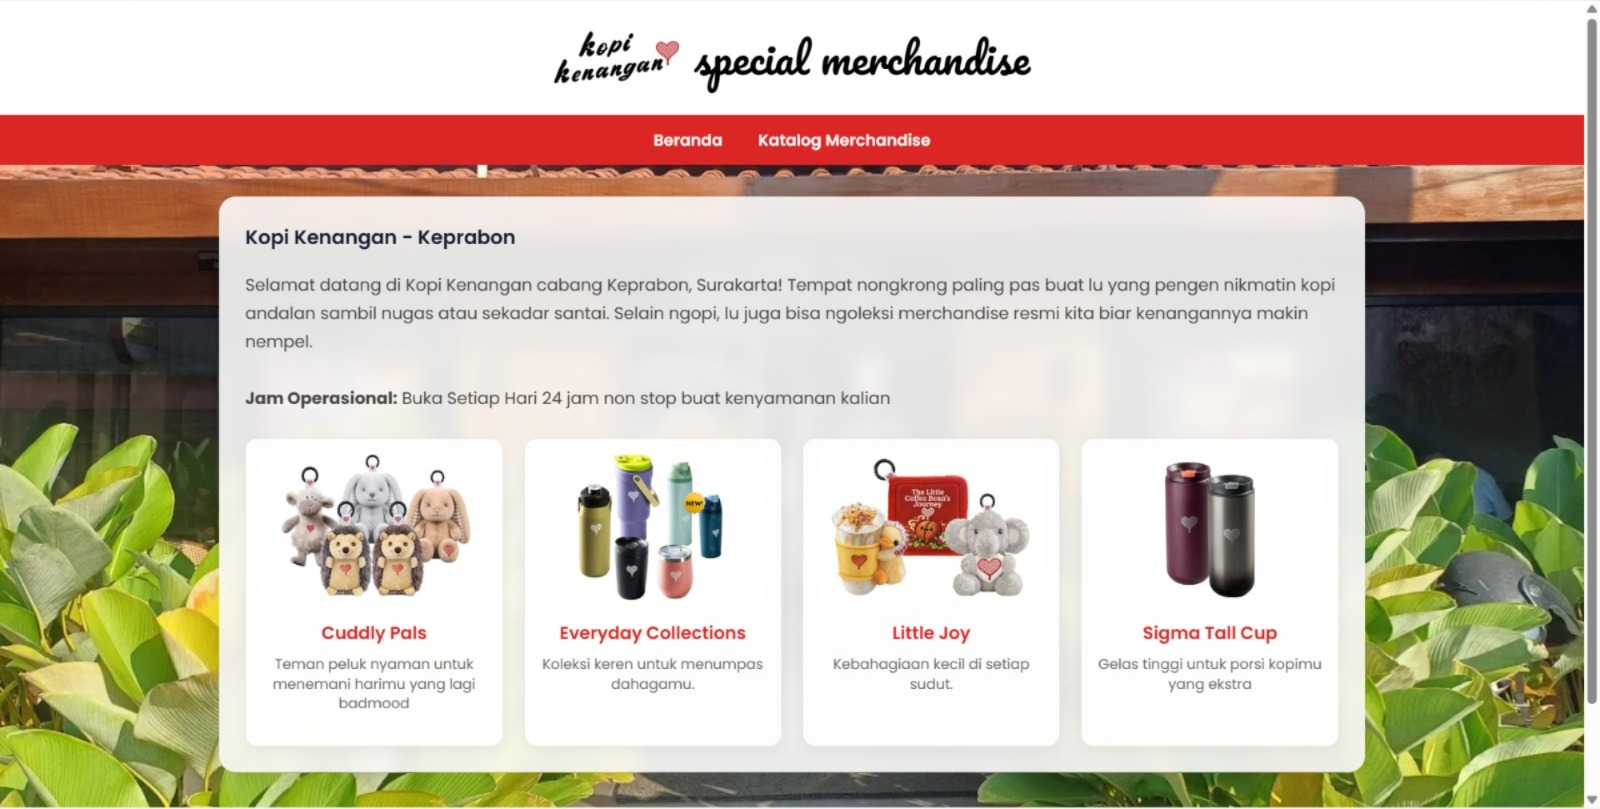
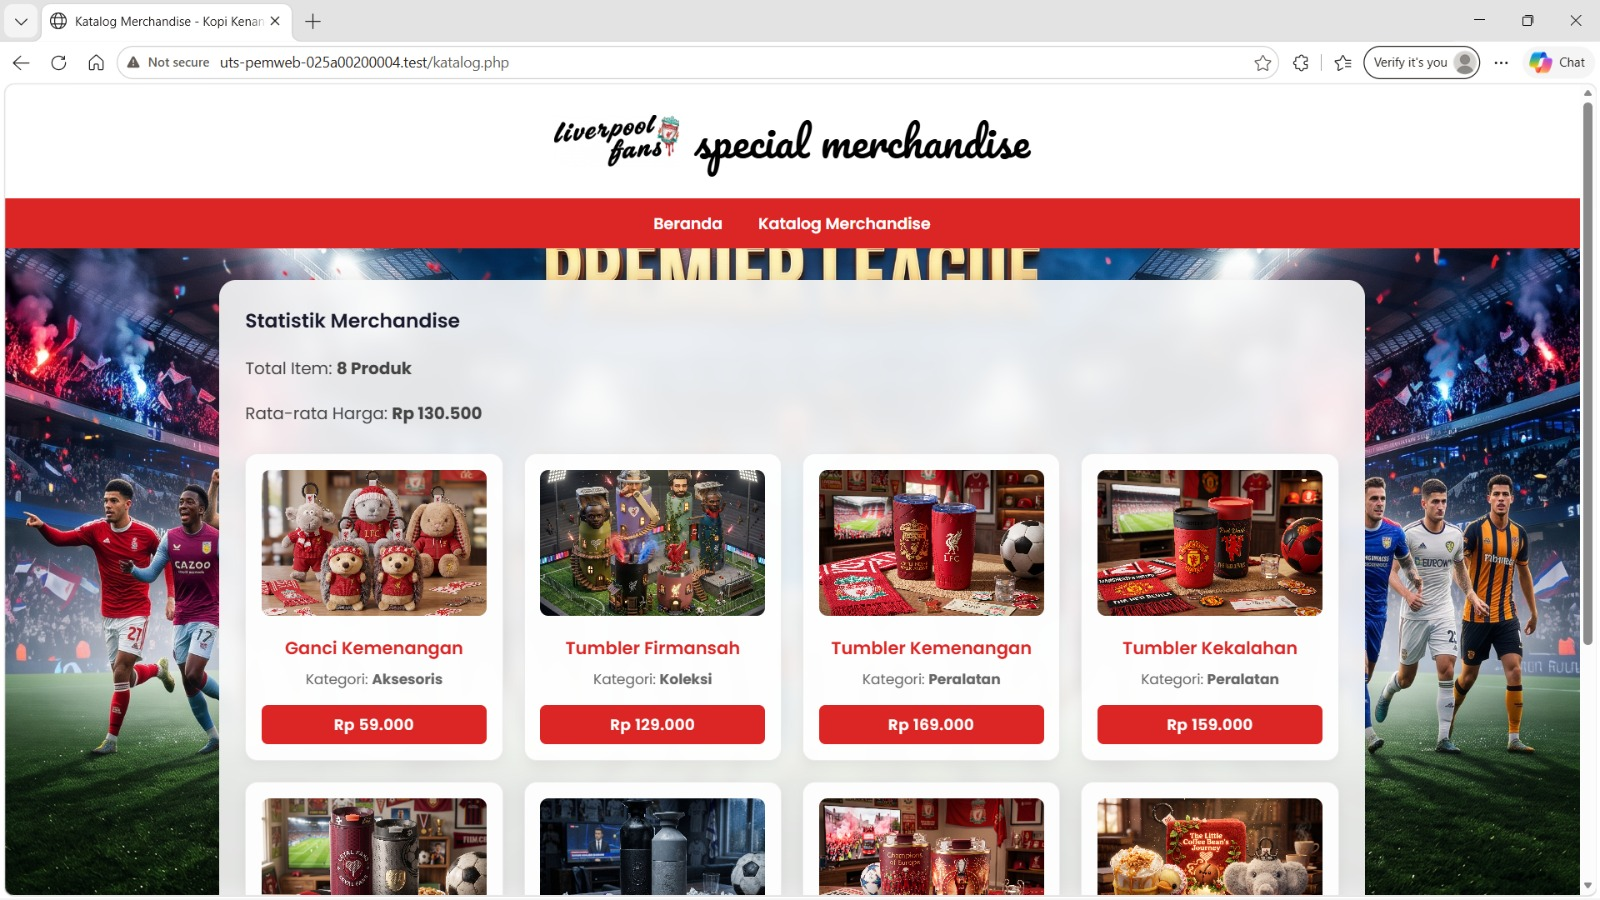
all update file

diff --git a/style.css b/style.css
@@ -9,7 +9,7 @@ body {
     margin: 0;
     padding: 0;
     color: #333;
-    background-image: url('assets/keprabon.png');
+    background-image: url('assets/EPL.png');
     background-size: cover;
     background-position: center;
     background-attachment: fixed;
@@ -162,6 +162,7 @@ footer {
     font-weight: 400;
     margin-top: auto; 
     width: 100%;
+} /* Tanda tutup kurung ini sebelumnya hilang */
 
 /* Responsif layar HP */
 @media (max-width: 768px) {

diff --git a/data.php b/data.php
@@ -2,20 +2,20 @@
 declare(strict_types=1);
 
 $merch_unggulan = [
-    ['nama' => 'Cuddly Pals', 'deskripsi' => 'Teman peluk nyaman untuk menemani harimu yang lagi badmood', 'gambar' => 'assets/cuddlypals.png'],
-    ['nama' => 'Everyday Collections', 'deskripsi' => 'Koleksi keren untuk menumpas dahagamu.', 'gambar' => 'assets/everydaycollections.png'],
-    ['nama' => 'Little Joy', 'deskripsi' => 'Kebahagiaan kecil di setiap sudut.', 'gambar' => 'assets/littlejoy.png'],
-    ['nama' => 'Sigma Tall Cup', 'deskripsi' => 'Gelas tinggi untuk porsi kopimu yang ekstra', 'gambar' => 'assets/sigmatallcup.png']
+    ['nama' => 'Ganci Kemenangan', 'deskripsi' => 'Pecinta Liverpool Wajib Punya', 'gambar' => 'assets/gancikemenangan.png'],
+    ['nama' => 'Tumbler Firmansah', 'deskripsi' => '2019 Prime Firmansah.', 'gambar' => 'assets/tumblerfirmansah.png'],
+    ['nama' => 'Ganci Ucul', 'deskripsi' => 'Kebahagiaan kecil di setiap sudut.', 'gambar' => 'assets/ganciucul.png'],
+    ['nama' => 'Tumbler Pecinta Bola', 'deskripsi' => 'Buat kamu yang suka adrenalin 4x45 menit', 'gambar' => 'assets/tumblerpecintabola.png']
 ];
 
 $data_merch = [
-    ['nama' => 'Cuddly Pals', 'kategori' => 'Aksesoris', 'harga' => 59000, 'gambar' => 'assets/cuddlypals.png'],
-    ['nama' => 'Everyday Collections', 'kategori' => 'Koleksi', 'harga' => 129000, 'gambar' => 'assets/everydaycollections.png'],
-    ['nama' => 'Playsonality Classic', 'kategori' => 'Peralatan', 'harga' => 169000, 'gambar' => 'assets/playsonalityclassic.png'],
-    ['nama' => 'Playsonality Press', 'kategori' => 'Peralatan', 'harga' => 159000, 'gambar' => 'assets/playsonalitypress.png'],
-    ['nama' => 'Sigma Slip Cup', 'kategori' => 'Cup', 'harga' => 169000, 'gambar' => 'assets/sigmaslipcup.png'],
-    ['nama' => 'Sigma Slip Tumbler', 'kategori' => 'Tumbler', 'harga' => 185000, 'gambar' => 'assets/sigmasliptumbler.png'],
-    ['nama' => 'Sigma Tall Cup', 'kategori' => 'Cup', 'harga' => 115000, 'gambar' => 'assets/sigmatallcup.png'],
-    ['nama' => 'Little Joy', 'kategori' => 'Aksesoris', 'harga' => 59000, 'gambar' => 'assets/littlejoy.png']
+    ['nama' => 'Ganci Kemenangan', 'kategori' => 'Aksesoris', 'harga' => 59000, 'gambar' => 'assets/gancikemenangan.png'],
+    ['nama' => 'Tumbler Firmansah', 'kategori' => 'Koleksi', 'harga' => 129000, 'gambar' => 'assets/tumblerfirmansah.png'],
+    ['nama' => 'Tumbler Kemenangan', 'kategori' => 'Peralatan', 'harga' => 169000, 'gambar' => 'assets/tumblerkemenangan.png'],
+    ['nama' => 'Tumbler Kekalahan', 'kategori' => 'Peralatan', 'harga' => 159000, 'gambar' => 'assets/tumblerkekalahan.png'],
+    ['nama' => 'Tumbler Pecinta Bola', 'kategori' => 'Cup', 'harga' => 169000, 'gambar' => 'assets/tumblerpecintabola.png'],
+    ['nama' => '13 UCL HOKI', 'kategori' => 'Tumbler', 'harga' => 185000, 'gambar' => 'assets/13kaliuclhoki.png'],
+    ['nama' => 'Tumbler Ipul Prime', 'kategori' => 'Cup', 'harga' => 115000, 'gambar' => 'assets/tumblerprimeipul.png'],
+    ['nama' => 'Ganci Ucul', 'kategori' => 'Aksesoris', 'harga' => 59000, 'gambar' => 'assets/ganciucul.png']
 ];
 ?>

diff --git a/index.php b/index.php
@@ -24,9 +24,9 @@ require_once 'data.php';
 
     <main>
         <section class="kurator-section">
-             <h3>Kopi Ngangenin</h3>
-             <p>Selamat datang di Kopi Ngangenin! Tempat nongkrong paling pas buat lu yang pengen nikmatin kopi andalan sambil nugas atau sekadar santai. Selain ngopi, lu juga bisa ngoleksi merchandise resmi kita biar kenangannya makin nempel.<br><br>
-            <strong>Jam Operasional:</strong> Buka Setiap Hari 24 jam non stop buat kenyamanan kalian</p>
+             <h3>Merchandise Ipul</h3>
+             <p>Selamat datang di Toko Merchandise Ipul. Buat kamu yang suka nonton bola suka kehausan wajib banget beli di toko ipul ini apalagi khusus kamu fans ipul dapetin diskon.<br><br>
+            <strong>Jam Operasional:</strong> Buka Setiap Hari 24 jam non stop buat kamu fans ipul sejati</p>
         </section>
 
         <!-- Menggunakan class merchandise-grid -->
